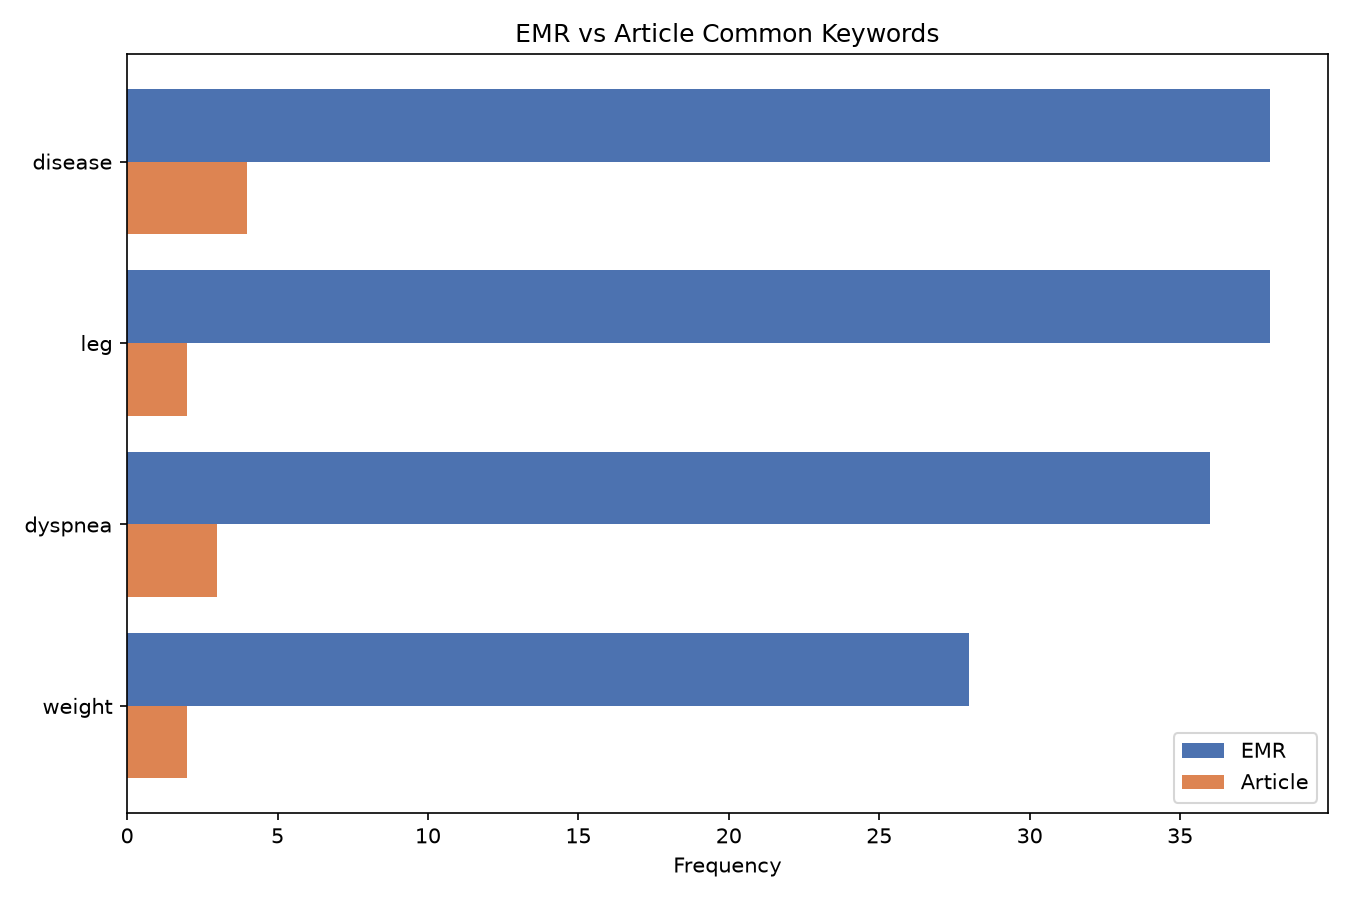
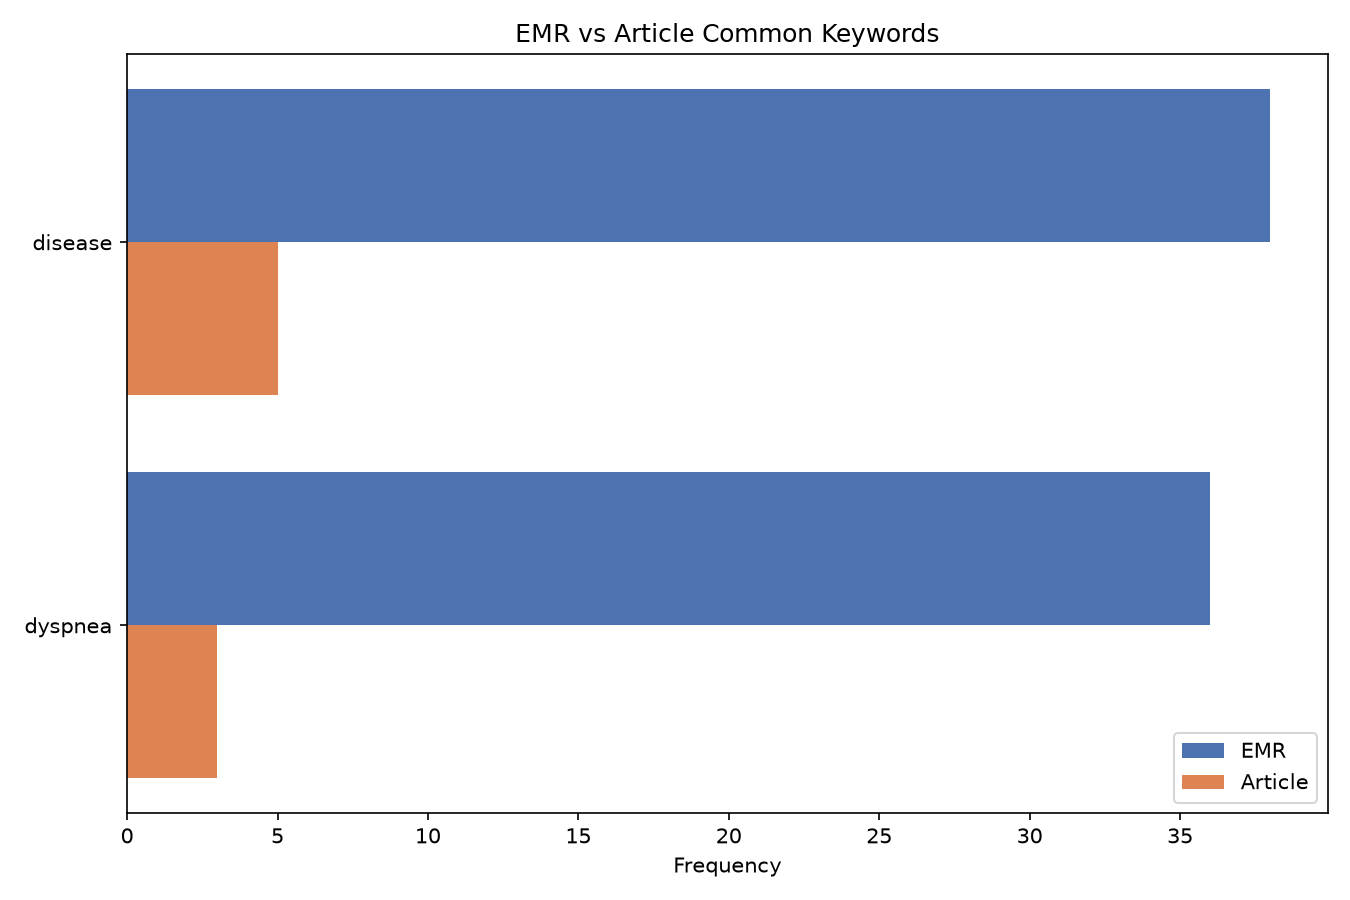
잘못된 SNOMED 동의어 매핑 수정 및 summary.txt 보강
- terminology.py: cardiomyopathy -> heart failure 동의어 매핑 삭제.
  cardiomyopathy는 heart failure와 별도 임상개념이므로 참조표에 없으면
  mapping_status=Unverified, snomed_concept_id=UNVERIFIED로 처리되도록 함
- text_mining.py: 의료 용어 추출 정규식이 복수형(inhibitors, blockers 등)을
  놓치던 문제 수정 -> ACE inhibitor/beta blocker/SGLT2 inhibitor 등이
  실제 텍스트에 등장하면 정상적으로 카운트되고 Pilot 후보에 포함되도록 개선
- crawler.py 오프라인 대체 텍스트에 ARB, cardiomyopathy(원인 질환으로서) 관련
  문장을 의학적으로 정확하게 보강하여 해당 개념들이 실제로 추출되도록 함
- main.py summary.txt: 기사 출처별 개수, Pilot validation 상태
  (Manual validation pending / N건 채점 완료), correct/incorrect/uncertain을
  포함하도록 보강
- pilot_validation.csv의 human_judgment는 여전히 사람이 직접 입력하도록 비워둠

Claude-Session: https://claude.ai/code/session_01Cs4Hx4deid9PPNXghhs65Z

diff --git a/medical_6p_project/main.py b/medical_6p_project/main.py
@@ -35,14 +35,19 @@ from terminology import CLINICAL_CATEGORIES
 def build_summary(emr_df, articles_df, mapping_df, pilot_df, pilot_stats):
     clinical_mapping = mapping_df[mapping_df["source_type"].isin(CLINICAL_CATEGORIES)]
     status_counts = mapping_df["mapping_status"].value_counts()
+    source_counts = articles_df["source"].value_counts()
 
-    if pilot_stats["accuracy"] is None:
+    if pilot_stats["total_reviewed"] == 0:
+        validation_status = "Manual validation pending"
         accuracy_line = "Manual validation pending"
     else:
+        validation_status = (f"{pilot_stats['total_reviewed']}/{pilot_stats['total_pilot']} "
+                              f"건 채점 완료")
         accuracy_line = (f"{pilot_stats['accuracy']:.2f}% "
-                          f"(correct {pilot_stats['correct']} / reviewed "
-                          f"{pilot_stats['total_reviewed']} / pilot total "
-                          f"{pilot_stats['total_pilot']})")
+                          f"(correct {pilot_stats['correct']} / incorrect "
+                          f"{pilot_stats['incorrect']} / uncertain "
+                          f"{pilot_stats['uncertain']} / reviewed "
+                          f"{pilot_stats['total_reviewed']})")
 
     lines = [
         f"=== {config.SYSTEM_KO} / {config.DISEASE_KO} ({config.DISEASE_EN}) "
@@ -50,17 +55,23 @@ def build_summary(emr_df, articles_df, mapping_df, pilot_df, pilot_stats):
         f"생성 일시: {datetime.datetime.now().isoformat(timespec='seconds')}",
         "",
         f"Synthetic EMR 환자 수: {len(emr_df)}",
-        f"수집 기사 수: {len(articles_df)}",
+        f"실제 수집 기사 수: {len(articles_df)}",
+    ]
+    for source, count in source_counts.items():
+        lines.append(f"  - {source}: {count}")
+    lines += [
         f"추출 의료용어 수 (질환/증상/약물/검사/검사결과/치료): {len(clinical_mapping)}",
-        f"SNOMED 후보 매핑 수 (일반 키워드 포함 전체): {len(mapping_df)}",
+        f"SNOMED candidate mapping 수 (일반 키워드 포함 전체): {len(mapping_df)}",
         f"  - Exact: {int(status_counts.get('Exact', 0))}",
         f"  - Partial: {int(status_counts.get('Partial', 0))}",
         f"  - Unverified: {int(status_counts.get('Unverified', 0))}",
         f"  - No Match: {int(status_counts.get('No Match', 0))}",
-        f"Pilot 검증 대상 개수: {len(pilot_df)}",
+        f"Pilot 검증 대상 수: {len(pilot_df)}",
+        f"Pilot validation 상태: {validation_status}",
         f"Pilot terminology mapping accuracy: {accuracy_line}",
         "",
-        "※ SNOMED CT 매핑은 후보(candidate) 수준이며, 최종 확인은 사람이 담당합니다.",
+        "※ SNOMED CT 매핑은 candidate mapping(후보 매핑) 수준이며, "
+        "최종 확인은 사람이 담당합니다.",
     ]
     return "\n".join(lines)
 

diff --git a/medical_6p_project/src/crawler.py b/medical_6p_project/src/crawler.py
@@ -143,7 +143,10 @@ OFFLINE_FALLBACK_TEXTS = [
     ("Heart failure overview",
      "Heart failure is a chronic condition in which the heart cannot pump enough blood "
      "to meet the body's needs. It is commonly classified as heart failure with reduced "
-     "ejection fraction (HFrEF) or heart failure with preserved ejection fraction (HFpEF)."),
+     "ejection fraction (HFrEF) or heart failure with preserved ejection fraction (HFpEF). "
+     "Cardiomyopathy is a distinct disease of the heart muscle itself and is one of "
+     "several possible underlying causes of heart failure, rather than another name for "
+     "heart failure."),
     ("Common symptoms of heart failure",
      "Typical symptoms of heart failure include dyspnea on exertion, orthopnea, "
      "paroxysmal nocturnal dyspnea, fatigue, leg edema, and rapid weight gain due to "
@@ -157,8 +160,9 @@ OFFLINE_FALLBACK_TEXTS = [
      "and are used as blood biomarkers to support or exclude a diagnosis of heart failure."),
     ("Pharmacologic therapy classes",
      "Guideline-directed medical therapy for heart failure with reduced ejection fraction "
-     "includes ACE inhibitors or ARNI, beta blockers, mineralocorticoid receptor "
-     "antagonists such as spironolactone, and SGLT2 inhibitors."),
+     "includes ACE inhibitors, ARBs, or ARNI, beta blockers, mineralocorticoid receptor "
+     "antagonists such as spironolactone, and SGLT2 inhibitors. An ARB may be used in "
+     "patients who cannot tolerate an ACE inhibitor."),
     ("Diuretics in heart failure",
      "Loop diuretics such as furosemide and torsemide are used to relieve congestion and "
      "reduce fluid overload symptoms such as leg edema and shortness of breath."),

diff --git a/medical_6p_project/src/terminology.py b/medical_6p_project/src/terminology.py
@@ -183,5 +183,7 @@ SYNONYM_MAP = {
     "chf": "congestive heart failure",
     "heart failure with reduced ejection fraction": "heart failure",
     "heart failure with preserved ejection fraction": "heart failure",
-    "cardiomyopathy": "heart failure",
+    # 주의: cardiomyopathy(심근병증)는 heart failure(심부전)의 원인이 될 수 있는
+    # 별도의 임상 개념이며 동의어가 아니다. 억지로 합치지 않고, 참조표에 없으므로
+    # map_term() 의 기본 로직에 따라 Unverified 로 남긴다.
 }

diff --git a/medical_6p_project/src/text_mining.py b/medical_6p_project/src/text_mining.py
@@ -120,7 +120,8 @@ def extract_medical_terms(documents):
     results = {}
     for category, terms in CATEGORY_KEYWORDS.items():
         for term in terms:
-            pattern = r"\b" + re.escape(term.lower()) + r"\b"
+            # 단순 복수형(inhibitors, blockers 등)도 같은 개념으로 집계한다.
+            pattern = r"\b" + re.escape(term.lower()) + r"s?\b"
             count = len(re.findall(pattern, joined))
             if count > 0:
                 results[term] = {"category": category, "count": count}
